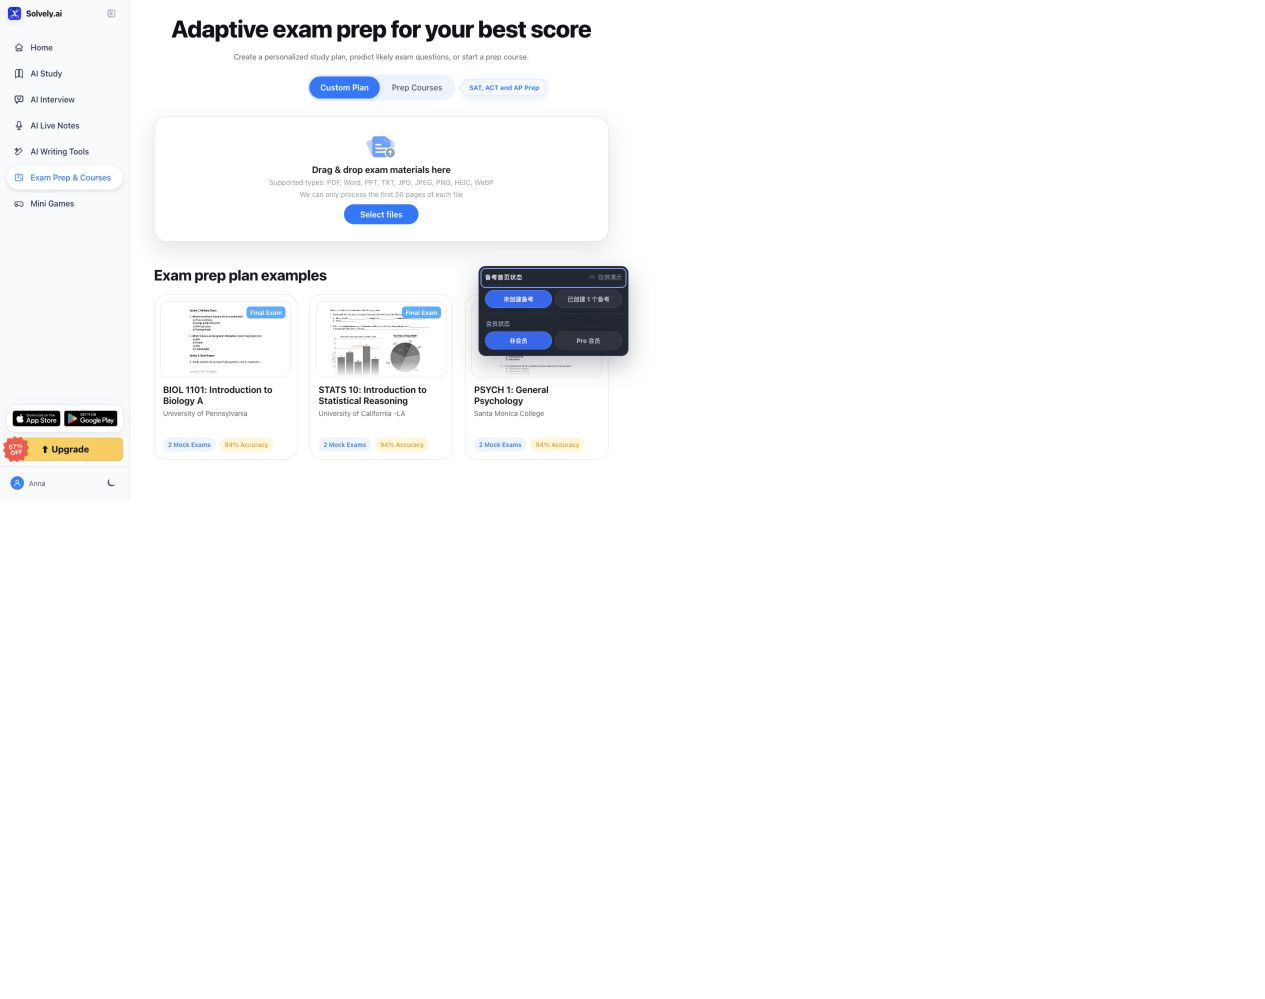
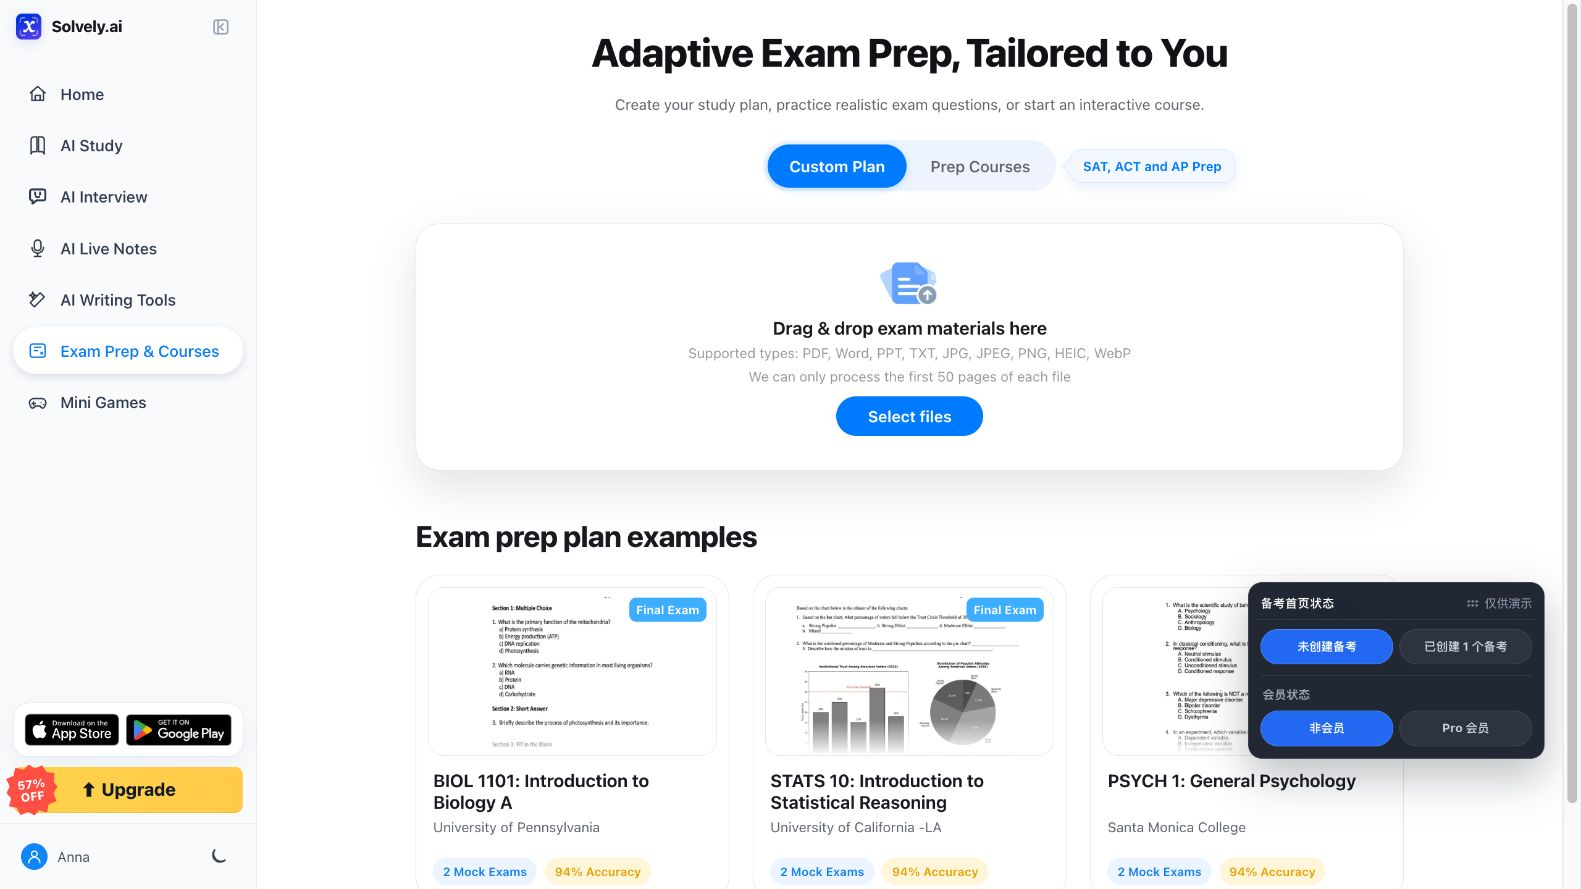
Refine home typography and sync PRD

diff --git a/src/styles/package.css b/src/styles/package.css
@@ -1119,7 +1119,7 @@
     .predictor-home-workspace.is-first-entry { padding-top:30px; }
     .first-entry-hero { width:100%; max-width:1000px; margin:0 auto; }
     .first-entry-heading { text-align:center; }
-    .first-entry-heading h1 { margin:0; color:#101216; font:800 48px/1.1 Inter,ui-sans-serif,system-ui,sans-serif; letter-spacing:-1.2px; }
+    .first-entry-heading h1 { margin:0; color:#101216; font:800 40px/1.15 Inter,ui-sans-serif,system-ui,sans-serif; letter-spacing:-.8px; }
     .first-entry-heading p { max-width:1000px; margin:18px auto 0; color:#5f636b; font-size:15px; font-weight:400; line-height:24px; white-space:nowrap; }
     .first-entry-tabs-wrap { width:max-content; position:relative; margin:24px auto 32px; }
     .first-entry-tabs { width:max-content; display:flex; align-items:center; justify-content:center; gap:2px; margin:0; padding:4px; border:0; border-radius:999px; background:#edf4fd; }
@@ -1172,7 +1172,7 @@
     body.dark .prediction-sample-body > small { color:var(--muted); }
     .predictor-home-hero { min-height:190px; display:grid; grid-template-columns:minmax(0,900px) minmax(0,1fr); align-items:start; gap:48px; padding:32px 0; }
     .predictor-home-copy { align-self:start; }
-    .predictor-home-copy h1 { margin:0; color:var(--text); font:800 48px/1.1 Inter,ui-sans-serif,system-ui,sans-serif; letter-spacing:-1.2px; }
+    .predictor-home-copy h1 { margin:0; color:var(--text); font:800 40px/1.15 Inter,ui-sans-serif,system-ui,sans-serif; letter-spacing:-.8px; }
     .predictor-home-copy p { max-width:900px; margin:16px 0 0; color:#5f636b; font-size:15px; font-weight:400; line-height:24px; }
     .new-prediction-button { min-width:169px; height:48px; justify-self:end; display:inline-flex; align-items:center; justify-content:center; gap:8px; padding:0 24px 0 16px; border:0; border-radius:24px; background:#007aff; color:#fff; box-shadow:0 2px 4px rgba(0,0,0,.18); font-size:14px; font-weight:650; cursor:pointer; transition:background .16s ease,transform .16s ease,box-shadow .16s ease; }
     .new-prediction-button:hover { background:#0060c9; box-shadow:0 7px 18px rgba(0,96,201,.22); transform:translateY(-1px); }
@@ -2633,7 +2633,8 @@
       .exam-predictor-workspace { width:min(720px,calc(100% - 28px)); padding-top:16px; }
       .predictor-page-header { grid-template-columns:1fr; margin-bottom:34px; }
       .predictor-home-workspace.is-first-entry { padding-top:8px; }
-      .first-entry-heading h1 { font-size:36px; letter-spacing:-.9px; }
+      .first-entry-heading h1,
+      .predictor-home-copy h1 { font-size:34px; line-height:1.14; letter-spacing:-.7px; }
       .first-entry-heading p { max-width:680px; margin-top:16px; white-space:normal; }
       .prediction-sample-grid { grid-template-columns:repeat(2,minmax(0,1fr)); }
       .predictor-mastery { width:190px; }
@@ -2662,9 +2663,9 @@
     @media (max-width: 560px) {
       .topbar-title, .topbar-actions .topbar-button:first-child { display: none; }
       .workspace { width: calc(100% - 20px); padding-top:72px; padding-bottom: 28px; }
-      .predictor-home-copy h1 { font-size:38px; line-height:1.08; letter-spacing:-.9px; }
       .predictor-home-workspace.is-first-entry { padding-top:8px; }
-      .first-entry-heading h1 { font-size:28px; line-height:1.14; letter-spacing:-.6px; }
+      .first-entry-heading h1,
+      .predictor-home-copy h1 { font-size:28px; line-height:1.14; letter-spacing:-.6px; }
       .first-entry-heading p { margin:14px 10px 0; font-size:14px; line-height:21px; }
       .first-entry-tabs-wrap { display:flex; flex-direction:column; align-items:center; margin:20px auto 26px; }
       .first-entry-tab { min-width:100px; height:42px; padding-inline:14px; font-size:14px; }

diff --git a/docs/prd/exam-prep-courses/PRD-Exam-Prep-Courses.md b/docs/prd/exam-prep-courses/PRD-Exam-Prep-Courses.md
@@ -1,9 +1,9 @@
 # Exam Prep & Courses 完整产品需求文档（PRD）
 
-> 文档版本：v1.10
-> 基准日期：2026-09-09  
+> 文档版本：v1.11
+> 基准日期：2026-09-10
 > 产品范围：Exam Prep 首页、Standardized Test Prep Courses、课程学习工具、SAT/ACT/AP 模考、成绩报告与商业化门槛  
-> Demo 基准：`v1.8 state-and-copy-aligned build`
+> Demo 基准：`ChatGPT Site · 2026-09-10 published build`
 > 文档状态：评审稿
 
 ## 1. 关键问题同步与变更记录
@@ -114,7 +114,7 @@
 
 | 类型 | 链接 | 说明 |
 |---|---|---|
-| 可交互 Demo | [solvely-exam-prep-package.vercel.app](https://solvely-exam-prep-package.vercel.app/) | 本 PRD 的视觉与交互基准 |
+| 可交互 Demo | [solvely-exam-prep-demo.shuoxin-dai.chatgpt.site](https://solvely-exam-prep-demo.shuoxin-dai.chatgpt.site/) | 本 PRD 的视觉与交互基准；拿到链接即可访问，页面通过 `noindex` 与 `robots.txt` 禁止搜索引擎收录 |
 | 当前生产页参考 | [solvely.ai/exam/home](https://solvely.ai/exam/home) | Exam Prep 原始入口与侧边栏语境 |
 | 仓库 | [GitHub Repository](https://github.com/shuoxindai-blip/solvely-exam-prep-package) | Demo 源码与内容数据 |
 | AP Reference 调研 | [Lazyweb evidence](https://www.lazyweb.com/agentic-search/88b5b117-7c74-4773-89bf-54da6fc8b025) | AP Reference Sheet 竞品与考试规则证据 |
@@ -169,7 +169,7 @@ Exam Prep & Courses
 | BR-008 | AP 页面不显示 Section 筛选；Topic 标题不重复课程名。 |
 | BR-009 | 所有题目选项必须使用结构化 `options` 渲染，不得并入题干。支持 A/B/C/D、F/G/H/J、其他标签及无选项 Student-Produced Response。 |
 | BR-010 | 课程目录展示 52 门课程：SAT 1、ACT 1、AP 43、Abitur 7；当前仅 SAT、ACT、AP Calculus BC 可进入，其余为 Coming soon。 |
-| BR-011 | 课程卡片固定三行：`• {topics} topics · video lessons`、`• {practiceQuestions} practice questions`、`• 1 full-length test • Score insights`；第一行不得重复 topics 数字。 |
+| BR-011 | 课程卡片固定三行：`• {topicCount} topics · video lessons`、`• {practiceQuestionCount} practice questions`、`• 1 full-length test • score insights`。Topic 与练习题数量读取当前课程真实配置并按语言环境格式化；第一行只展示一次 Topic 数量，不为 video lessons 重复数字；`score insights` 使用小写 `s`。未来测试数量不为 1 时需同步复数化为 `tests`。 |
 | BR-012 | 所有商业化差异只以 **4.8 商业化与权限** 为准；其他章节只引用规则编号，不重复定义 Free/Pro。 |
 | BR-013 | 报告未生成或被 Pro 锁定时可展示对应考试的预生成封面与报告模块结构；预览模板不可交互、不写入成绩也不计入真实报告埋点，真实成绩仍只在测试记录进入 Results ready（结果已生成）后生成。 |
 
@@ -215,7 +215,7 @@ Exam Prep & Courses
 
 | 项目 | 说明 | 图示 |
 |---|---|---|
-| 页面头部 | 标题：**Adaptive exam prep for your best score**。副标题：**Create a personalized study plan, predict likely exam questions, or start a prep course.** 文案保持单行展示；窄屏可自然换行。 | ![VIS-01 首次进入 Custom Plan](./images/VIS-01-home-first-entry-custom-plan.png) |
+| 页面头部 | 当用户没有成功创建过 Custom Plan，且没有开始过任何 Prep Course 学习资源或考试时，标题：**Adaptive Exam Prep, Tailored to You**；副标题：**Create your study plan, practice realistic exam questions, or start an interactive course.** 标题与副标题保持清晰但克制的层级：桌面端分别为 40px / 15px，标题行高 1.15；桌面端优先单行展示，窄屏可自然换行。 | ![VIS-01 首次进入 Custom Plan](./images/VIS-01-home-first-entry-custom-plan.png) |
 | 分段 Tab | `Custom Plan` / `Prep Courses`。Tab 视觉、键盘切换和滑块动画与课程内部状态切换器一致。首次进入默认 Custom Plan。Custom Plan 状态下，在 Prep Courses 旁展示 `SAT, ACT and AP Prep` 引导提示。 | ![VIS-02 首次进入 Prep Courses](./images/VIS-02-home-first-entry-prep-courses.png) |
 | Custom Plan 上传 | 拖拽或 Select files；支持 PDF、Word、PPT、TXT、JPG、JPEG、PNG、HEIC、WebP；每个文件只处理前 50 页。上传区宽度与下方三张示例卡组成的容器一致。 | ![VIS-01 上传入口](./images/VIS-01-home-first-entry-custom-plan.png) |
 | 示例计划 | 标题固定 `Exam prep plan examples`，字体、颜色与 `Standardized Test Prep Courses` 一致；展示三张真实感示例卡。点击后进入真实预测/计划体验。 | ![VIS-01 示例计划](./images/VIS-01-home-first-entry-custom-plan.png) |
@@ -225,7 +225,7 @@ Exam Prep & Courses
 
 | 项目 | 说明 | 图示 |
 |---|---|---|
-| 页面头部 | 标题、副标题与首次进入完全一致；右上角展示 `+ New Prep Plan`。不再显示首次进入 Tab。 | ![VIS-04 已有进度首页](./images/VIS-04-home-active-exam-library.png) |
+| 页面头部 | 当用户成功创建至少一个 Custom Plan，或实际开始任一 Prep Course 的 Study Guide、Flashcards、Quiz、Lesson、Diagnostic 或 Full-Length Test 后，标题切换为 **Stay on Track for Your Best Score**；副标题切换为 **Personalized exam prep, all the way to test day.** 与首次进入状态共用 40px / 15px 的桌面端标题层级及同一套响应式递减规则。右上角展示 `+ New Prep Plan`，不再显示首次进入 Tab。仅浏览、搜索、打开课程或取消弹窗不得触发此状态。 | ![VIS-04 已有进度首页](./images/VIS-04-home-active-exam-library.png) |
 | Exam Library | 同时展示用户创建的计划和已经学习的 Prep Course。课程卡显示 IN PROGRESS、完成度、最近资源类型和最近 Topic；计划卡显示 READY/IN PROGRESS 与考试日期。 | ![VIS-04 Exam Library](./images/VIS-04-home-active-exam-library.png) |
 | 继续学习 | 点击课程进度卡，进入上次学习的课程/Topic/工具；点击计划卡进入计划详情。Course 一旦有进度，就必须同步出现在 Exam Library。 | ![VIS-04 继续学习](./images/VIS-04-home-active-exam-library.png) |
 | 侧边栏 | 支持折叠/展开；折叠不改变主内容层级和三列卡片尺寸。 | ![VIS-78 侧边栏折叠](./images/VIS-78-home-sidebar-collapsed.png) |
@@ -237,6 +237,7 @@ Exam Prep & Courses
 | 标题与搜索 | 标题：`Standardized Test Prep Courses`；删除说明句和 Total 数量。搜索 Placeholder：`Search a ready-made course for the exam you are preparing for...`。 | ![VIS-02 课程库](./images/VIS-02-home-first-entry-prep-courses.png) |
 | 分类筛选 | All courses、SAT、ACT、AP、Abitur。搜索和筛选组合生效；结果按课程配置顺序展示。 | ![VIS-72 搜索与 Coming soon](./images/VIS-72-course-search-and-coming-soon.png) |
 | 卡片网格 | 桌面端一行固定三张；卡片尺寸和间距与首页 Demo 一致。只有两张结果时，仍保持三列中单卡宽度，不拉伸。 | ![VIS-04 三列课程](./images/VIS-04-home-active-exam-library.png) |
+| 卡片信息 | 固定为三行：`• {topicCount} topics · video lessons`、`• {practiceQuestionCount} practice questions`、`• 1 full-length test • score insights`。所有数量以课程当前发布配置为准；第一行不得把同一数量在 topics 和 video lessons 前各显示一次；`score insights` 的 `s` 保持小写。 | ![VIS-02 课程卡片](./images/VIS-02-home-first-entry-prep-courses.png) |
 | 卡片状态 | 可用课程 CTA 为 Open course/Continue learning；不可用课程 CTA 为 Coming soon 且 disabled。左上角不展示 Coming soon/Ready/In progress 状态标签，状态只在 CTA 或 Exam Library 体现。 | ![VIS-72 Coming soon](./images/VIS-72-course-search-and-coming-soon.png) |
 | 空结果 | 搜索无匹配课程时展示明确 Empty State、保留搜索框和分类筛选，并提供 Clear search。 | ![VIS-73 搜索无结果](./images/VIS-73-course-search-empty.png) |
 
@@ -943,8 +944,10 @@ Course→Writing 的跨产品转化复用 Writing Tools 已有埋点协议；在
 | Key | English | Context |
 |---|---|---|
 | `ep.nav` | Exam Prep & Courses | 侧边栏 |
-| `ep.hero.title` | Adaptive exam prep for your best score | 首页标题 |
-| `ep.hero.subtitle` | Create a personalized study plan, predict likely exam questions, or start a prep course. | 首页副标题 |
+| `ep.hero.first_entry.title` | Adaptive Exam Prep, Tailored to You | 没有 Custom Plan 且没有课程活动时的首页标题 |
+| `ep.hero.first_entry.subtitle` | Create your study plan, practice realistic exam questions, or start an interactive course. | 没有 Custom Plan 且没有课程活动时的首页副标题 |
+| `ep.hero.active.title` | Stay on Track for Your Best Score | 已成功创建计划或已开始课程后的首页标题 |
+| `ep.hero.active.subtitle` | Personalized exam prep, all the way to test day. | 已成功创建计划或已开始课程后的首页副标题 |
 | `ep.mode.custom` | Custom Plan | 首次进入 Tab |
 | `ep.mode.courses` | Prep Courses | 首次进入 Tab |
 | `ep.mode.cue` | SAT, ACT and AP Prep | Prep Courses 指引 |
@@ -958,6 +961,9 @@ Course→Writing 的跨产品转化复用 Writing Tools 已有埋点协议；在
 | `ep.course.open` | Open course | 可用课程 |
 | `ep.course.continue` | Continue learning | 有进度课程 |
 | `ep.course.soon` | Coming soon | 未开放课程 |
+| `ep.course.meta.topics` | • {topicCount} topics · video lessons | 课程卡第 1 行；不重复 video lesson 数量 |
+| `ep.course.meta.questions` | • {practiceQuestionCount} practice questions | 课程卡第 2 行 |
+| `ep.course.meta.test` | • 1 full-length test • score insights | 课程卡第 3 行；`score insights` 使用小写 `s` |
 
 ### 8.2 学习、考试与报告
 
@@ -1009,11 +1015,11 @@ Course→Writing 的跨产品转化复用 Writing Tools 已有埋点协议；在
 
 | ID | 前置条件 | 操作 | 预期结果 |
 |---|---|---|---|
-| TC-001 | 新用户，无计划/课程进度 | 进入 Exam Prep & Courses | 显示首屏标题、副标题、Custom Plan 默认 Tab、上传区、3 张示例；无 Exam Library |
+| TC-001 | 新用户，无计划/课程进度 | 进入 Exam Prep & Courses | 显示 `Adaptive Exam Prep, Tailored to You` 与 `Create your study plan, practice realistic exam questions, or start an interactive course.`；Custom Plan 为默认 Tab；显示上传区和 3 张示例；无 Exam Library |
 | TC-002 | 同上 | 点击/键盘/拖动切换到 Prep Courses | 滑块切换；显示课程标题、搜索、筛选、三列卡片；状态可访问 |
 | TC-003 | 同上 | 上传不支持格式或超页数文件 | 格式错误被阻止；支持文件明确提示只处理前 50 页 |
-| TC-004 | 同上 | 创建计划 | 必填校验；成功后首页切到 active，计划出现在 Exam Library |
-| TC-005 | 用户已有课程进度 | 进入首页 | Exam Library 出现课程进度卡和最近活动；课程目录卡尺寸不变 |
+| TC-004 | 同上 | 创建计划 | 必填校验；只有创建成功后首页才切到 active；标题变为 `Stay on Track for Your Best Score`，副标题变为 `Personalized exam prep, all the way to test day.`；计划出现在 Exam Library |
+| TC-005 | 用户已有课程进度 | 进入首页 | 显示 active 标题与副标题；Exam Library 出现课程进度卡和最近活动；课程目录卡尺寸不变 |
 | TC-006 | 课程库 | 搜索 `ACT`，再筛选 AP | 组合条件正确；无结果时显示 Empty State 和 Clear search |
 | TC-007 | 课程库只剩 2 张结果 | 调整筛选 | 单卡宽度仍为三列宽度，不拉伸占满 |
 | TC-008 | Coming soon 课程 | 点击/键盘操作 | 不进入空课程；状态可感知；不触发 `web_ep_course_open` |
@@ -1023,6 +1029,7 @@ Course→Writing 的跨产品转化复用 Writing Tools 已有埋点协议；在
 | TC-012 | 已有两个课程活动 | 进入首页 | Exam Library 分别展示两张固定三列宽度卡片；最近活动与完成度互不串用 |
 | TC-013 | query 请求 empty，但服务端已有活动 | 刷新首页 | 真实数据优先，展示 active，不出现“初始状态 + 进度”组合 |
 | TC-014 | Coming soon 课程被注入 activity | 刷新首页/课程库 | 忽略非法 activity、记录告警；课程仍 disabled 且不进入 Exam Library |
+| TC-015 | 任一课程卡有真实发布数据 | 检查三行信息 | 依次显示 `{topicCount} topics · video lessons`、`{practiceQuestionCount} practice questions`、`1 full-length test • score insights`；每行数量正确，首行不重复 Topic 数量，`score insights` 的 `s` 为小写 |
 
 ### 9.2 课程、学习工具与商业化
 
